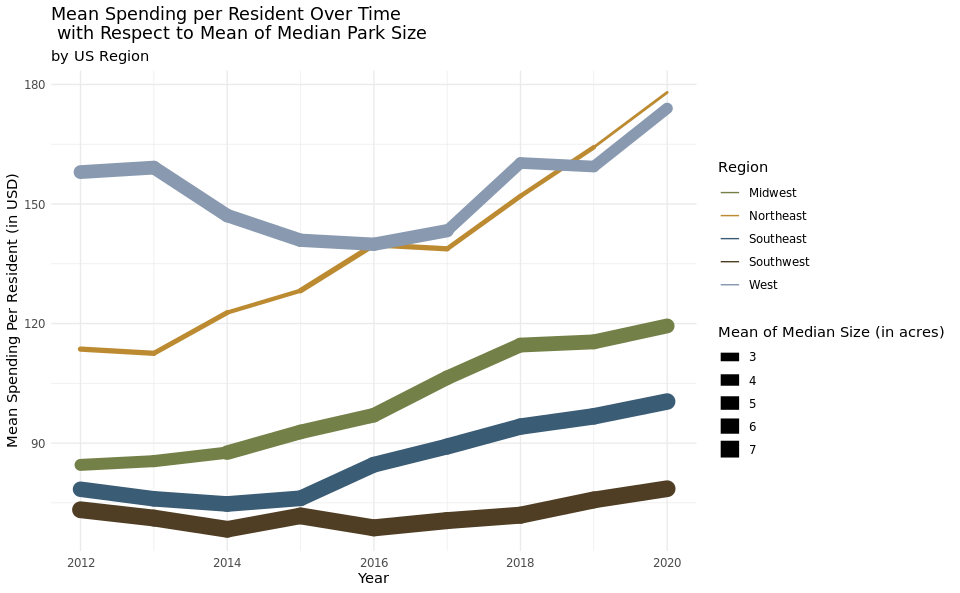
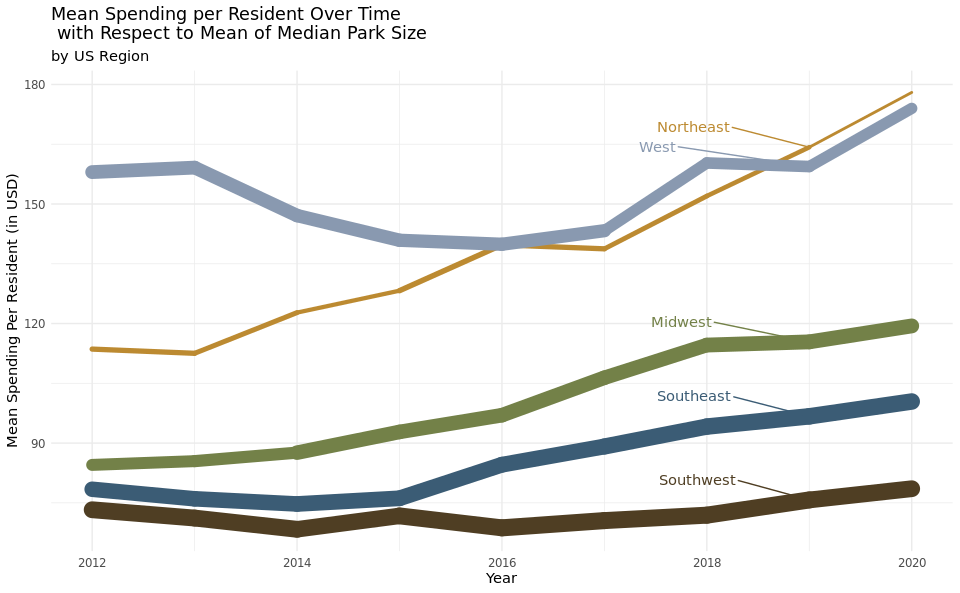
fixed code styling for code chunk #2

diff --git a/README.md b/README.md
@@ -57,10 +57,23 @@ visualize the quartiles for both size and spending next to each other
 and see how these two things correlated to median park size and spending
 over the span of 2012 and 2020.
 
-For the second graph… kathryn if you wanna hop in here and write out
-your approach
-
-# add second graph approach
+For the second graph, we wanted to consider the variables of
+`med_park_size_data` and `spend_per_resident` at the regional level as
+opposed to city level. We hoped that this visualization would discern
+differences between regions. To complete this goal, we first created a
+new variable called `region` using `mutate` and `case_when`. We
+referenced the National Geographic “United States Region” Map, which
+resulted in 5 regions: West, Southwest, Midwest, Southeast, and
+Northeast. After each city had a region connected with it in the
+dataset, we grouped by year and region to complete the summarize
+function. We then calculated the mean spending per resident for each
+region during each year and the mean median park size for each region
+during each year. We then plotted these means on a line plot over year
+on the x-axis and mean spending per resident on the y-axis, grouped by
+year. We used the size aesthetic to show the mean median park size
+because it made aesthetic sense for a size-based variable to be mapped
+to a size aesthetic. This yielded a lineplot, that we noticed had
+similar features to the Napoleon plot.
 
 ### Analysis
 
@@ -146,7 +159,6 @@ animate(q1_plot, duration = 18)
     ## Warning: Using size for a discrete variable is not advised.
 
 <img src="README_files/figure-gfm/question-1-vis-1-1.gif" width="90%" />
-
 Links:
 <https://github.com/thomasp85/gganimate/wiki/Animation-Composition>
 <https://cran.r-project.org/web/packages/gganimate/gganimate.pdf>
@@ -158,16 +170,13 @@ Links:
 <https://gganimate.com/articles/gganimate.html#rendering-1>
 <https://stackoverflow.com/questions/52899017/slow-down-gganimate-in-r>
 
-<<<<<<< HEAD
-``` {question-2-vis-2}
-=======
 ``` r
->>>>>>> 88d3238bc109124264e335c17024c5c257bf1691
-### data wrangling
-
+# data wrangling
+# mutate new variable `regions` based off what region the city is located in
 parks_regions <- parks_q1 %>% 
   mutate(region = case_when(
-         city %in% c("Boston", "Long Beach", "New York", "Philadelphia") ~ "Northeast", 
+         city %in% c("Boston", "Long Beach", "New York", "Philadelphia") ~
+           "Northeast", 
          city %in% c("Atlanta", "Baltimore", "Jacksonville", "Louisville", 
                     "Memphis", "Nashville", "Virginia Beach") ~ "Southeast", 
          city %in% c("Chicago", "Columbus", "Detroit", "Kansas City", 
@@ -179,6 +188,7 @@ parks_regions <- parks_q1 %>%
                      "Portland", "Sacramento", "San Diego", "San Francisco", 
                      "San Jose", "Seattle") ~ "West"))
 
+#group by region and year, then summarize mean of spending per resident and median park size 
 parks_regions <- parks_regions %>% 
   group_by(region, year) %>% 
   summarize(mean_spend = mean(spend_per_resident), 
@@ -205,17 +215,25 @@ parks_regions <- parks_regions %>%
     ## # … with 35 more rows
 
 ``` r
+#create a simplified data set to annotate 
+regions <- parks_regions %>%
+  count(year, region, mean_spend) %>%
+  filter(year == 2019)
+
 ### plot of mean spending per resident with respect to mean of median park size over time
 
-ggplot(parks_regions, aes(x = year, y = mean_spend, group = region)) + 
-  geom_line(aes(size = mean_med_size, color = region), lineend = "round") + 
+ggplot(data = parks_regions, aes(x = year, y = mean_spend, group = region)) + 
+  geom_line(aes(size = mean_med_size, color = region), lineend = "round", show.legend = FALSE) + 
+  geom_text_repel(data = regions, 
+                   aes(label = region, color = region), show.legend = FALSE, 
+                    nudge_y = 5, 
+                  nudge_x = -1.75,
+                  hjust = -.5) + 
   scale_color_manual(values = c("#738148", "#bc8a31", "#3b5c75", "#4f3e23", "#8999b0")) + 
     labs(title = "Mean Spending per Resident Over Time\n with Respect to Mean of Median Park Size", 
          subtitle = "by US Region",
          x = "Year", 
-         y = "Mean Spending Per Resident (in USD)", 
-         size = "Mean of Median Size (in acres)", 
-         color = "Region") + 
+         y = "Mean Spending Per Resident (in USD)") + 
   theme_minimal()
 ```
 
@@ -264,7 +282,9 @@ number of these amenities per 10k residents in each of the 20 cities. By
 doing so, we were able to compare the relative quantity and type of
 amenities between the top and bottom ten cities to see how this affects
 their rank. A stacked bar plot was the best candidate for this part of
-the question because …
+the question because we wanted to display a large quantity of cities
+(20), but also be able to split them by the types of amenities without
+overwheling the audience.
 
 ### Analysis
 
@@ -399,12 +419,30 @@ Our presentation can be found [here](presentation/presentation.html).
 
 ## Data
 
-Include a citation for your data here. See
-<http://libraryguides.vu.edu.au/c.php?g=386501&p=4347840> for guidance
-on proper citation for datasets. If you got your data off the web, make
-sure to note the retrieval date.
+Jones, R 2015, *1000 Largest US Cities By Population With Geographic
+Coordinates, in JSON*, electronic dataset, GitHub Gist, viewed 24
+September 2021,
+<http://www.https://gist.github.com/Miserlou/c5cd8364bf9b2420bb29>.
+
+The Trust for Public Land 2020, *2020 Park Score Index*, electronic
+dataset, GitHub, viewed 23 September 2021,
+\<<https://raw.githubusercontent.com/rfordatascience/tidytuesday/master/data/2021/2021-06-22/parks.csv>
+\>.
 
 ## References
 
 List any references here. You should, at a minimum, list your data
 source.
+
+\#\#\#ADD DATA SOURCE
+
+  - <https://github.com/thomasp85/gganimate/wiki/Animation-Composition>
+  - <https://cran.r-project.org/web/packages/gganimate/gganimate.pdf>
+  - <https://gganimate.com/>
+  - <https://www.datanovia.com/en/blog/gganimate-how-to-create-plots-with-beautiful-animation-in-r/>
+  - <http://r-statistics.co/Top50-Ggplot2-Visualizations-MasterList-R-Code.html>
+  - <https://ropensci.org/blog/2018/07/23/gifski-release/>
+  - <https://gif.ski/>
+  - <https://github.com/r-rust/gifski>
+  - <https://gganimate.com/articles/gganimate.html#rendering-1>
+  - <https://stackoverflow.com/questions/52899017/slow-down-gganimate-in-r>
